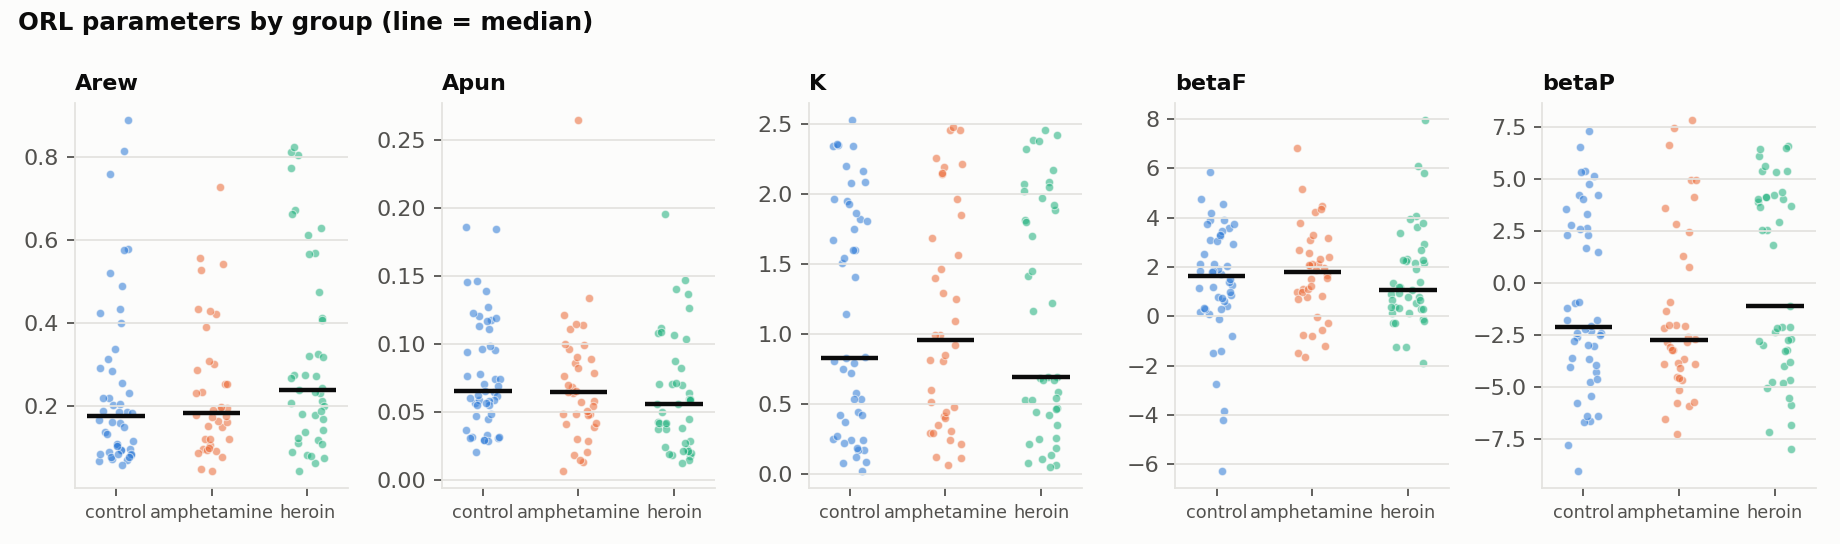
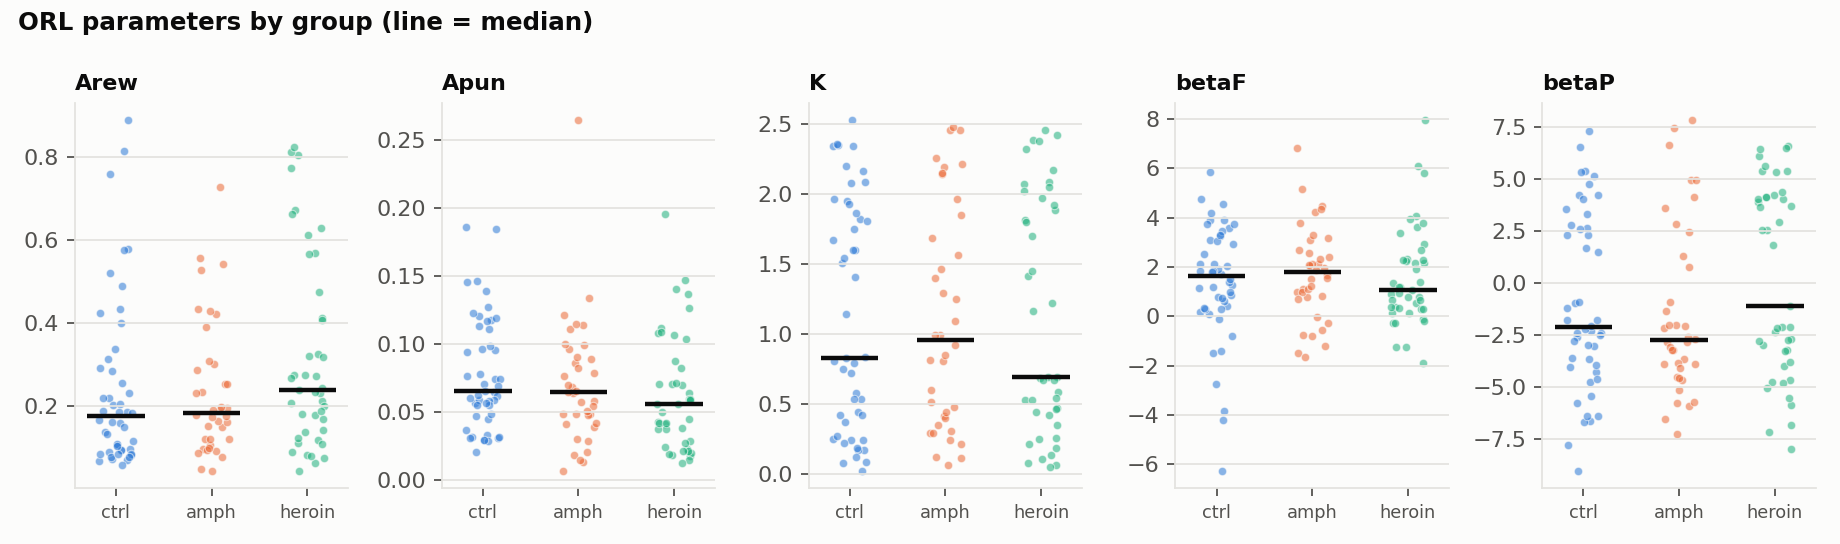
LLM pilot: Qwen2.5-0.5B plays the IGT direct vs chain-of-thought

diff --git a/src/plots.py b/src/plots.py
@@ -47,7 +47,7 @@ def plot_learning(curves: pd.DataFrame, path: Path, extra: pd.DataFrame | None =
     ax.set_xlabel("trial")
     ax.set_ylabel("share of good-deck (C, D) picks")
     ax.set_title("Learning to avoid the bad decks")
-    ax.set_ylim(0.2, 1)
+    ax.set_ylim(0.2 if extra is None else 0, 1)
     ax.legend(loc="lower right", fontsize=8)
     _save(fig, path)
 
@@ -59,7 +59,9 @@ def _strip(ax, P: pd.DataFrame, col: str, groups: pd.Series, order: list[str]) -
         ax.scatter(i + rng.uniform(-0.18, 0.18, len(v)), v, s=14, color=COLORS[g], alpha=0.55,
                    edgecolor=SURFACE, linewidth=0.5)
         ax.hlines(np.median(v), i - 0.3, i + 0.3, color=INK, lw=2)
-    ax.set_xticks(range(len(order)), [o.replace("LLM ", "LLM\n") for o in order], fontsize=8)
+    short = {"control": "ctrl", "amphetamine": "amph", "heroin": "heroin",
+             "LLM direct": "LLM\ndirect", "LLM chain-of-thought": "LLM\nCoT"}
+    ax.set_xticks(range(len(order)), [short.get(o, o) for o in order], fontsize=8)
     ax.grid(axis="x", visible=False)
 
 

diff --git a/README.md b/README.md
@@ -74,7 +74,7 @@ the best *predictor* of choices, carries almost no group information (0.50). Mos
 choices predictable is individual style, not diagnosis. One short task is not a screening
 tool.
 
-**4. LLM players.** See [LLM experiment](#llm-experiment-chain-of-thought) below.
+**4. A small LLM plays like an exaggerated substance user, and reasoning first made it more confident, not better.** See [LLM experiment](#llm-experiment-chain-of-thought) (pilot, 3 games).
 
 ## LLM experiment: chain-of-thought
 
@@ -85,10 +85,34 @@ reason in 2–3 sentences first. The deck is always read from the model's probab
 "I choose deck", so there is no text parsing. Its 100 choices then go through the same model
 fits and the same human-trained classifier ("how substance-user-like is this player?").
 
-- **PC pilot** (`Qwen2.5-0.5B-Instruct`, laptop CPU): results in `outputs/llm_results.json`
-  once it finishes. At 0.5B the reasoning is often incoherent ("pick the worst deck").
-- **Full run** (`Qwen2.5-3B-Instruct`, 10 games per condition): one click in the
-  [Colab notebook](notebooks/colab_run.ipynb) on a free T4 GPU.
+**Pilot result** (`Qwen2.5-0.5B-Instruct` on the laptop CPU, 2 direct games + 1 chain-of-thought
+game; ~1 h per direct game, 2.3 h for the reasoning game). Too few games for statistics, so
+these are observations only:
+
+| player | games | mean net score | "substance-user-like" (human-trained classifier) |
+|---|---|---|---|
+| people: control | 48 | +8.5 | 56%* |
+| people: amphetamine | 38 | −1.2 | 64%* |
+| people: heroin | 43 | −5.3 | 69%* |
+| LLM, direct answer | 2 | −54 | 65% |
+| LLM, chain-of-thought | 1 | −46 | 77% |
+
+<sub>* in-sample for people, so only a reference point.</sub>
+
+- The small LLM played **far worse than every human group**. It stuck with deck A (big wins, bigger
+  losses) and never learned to switch to C/D.
+- **Chain-of-thought made it more confident, not better.** Its average top-choice probability
+  rose from 0.49 to 0.85. The reasoning chases recent wins ("deck B has the highest win rate so
+  far") and ignores the rare large losses.
+- In ORL terms, the reasoning player learned from rewards **5.4× faster** than from punishments
+  (Arew 0.77 vs Apun 0.14). The ratio is 2.6× for controls and 4.3× for heroin users.
+
+![LLM learning](outputs/figures/llm_learning.png)
+![LLM parameters](outputs/figures/llm_orl_params.png)
+
+**Full run:** `Qwen2.5-3B-Instruct`, 10 games per condition, one click in the
+[Colab notebook](notebooks/colab_run.ipynb) on a free T4 GPU. A 0.5B model can't really reason,
+so whether chain-of-thought helps a capable model is still an open question here.
 
 ## Run it
 
